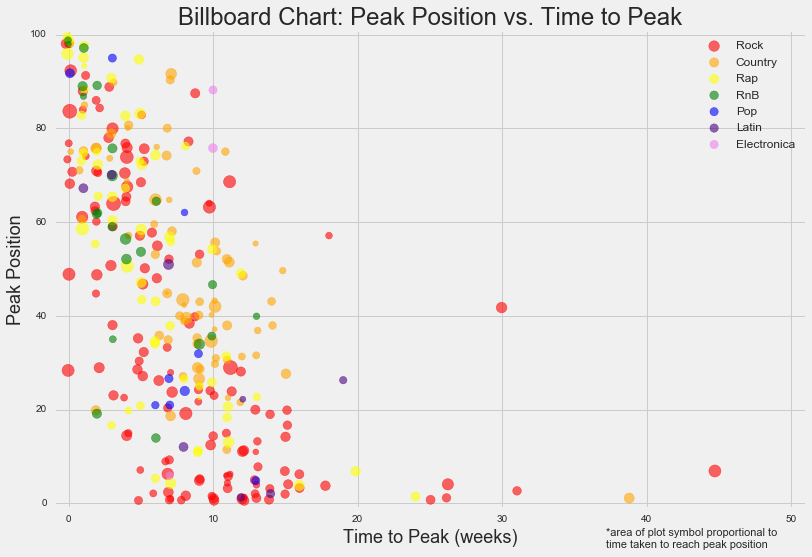
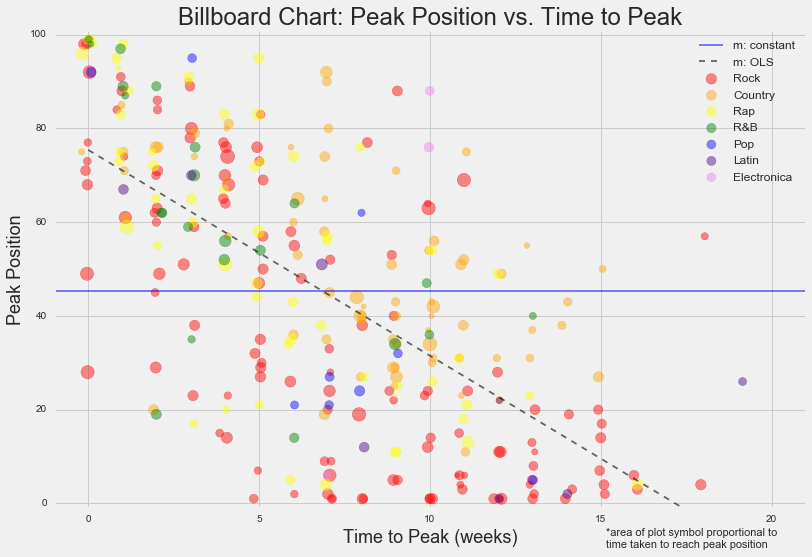
whoa

diff --git a/_posts/2016-6-22-billboardproject.md b/_posts/2016-6-22-billboardproject.md
@@ -2,19 +2,18 @@
 layout: post
 title: Billboard Chart -- Predicting the Hits
 ---
-![scatter](../images/billboardpeakvtimetopeakscatter.png)
-&nbsp;&nbsp;&nbsp;&nbsp;&nbsp;&nbsp;[Here](https://github.com/forzavitale/DSI-projects/tree/master/PROJECTS/Billboard%20Chart) I examined data on 317 different songs hitting the Billboard chart in the year 2000.  These variables considered are: song length, chart entry position, peak chart position, and weeks elapsed from entry until peak.  After some cleaning, the box plots below that songs tend to enter lower and then peak (instead of peaking and dropping off the chart, for example).  Peak position is attained, on average, about seven weeks after entry on the chart.
+&nbsp;&nbsp;&nbsp;&nbsp;&nbsp;&nbsp;[Here](https://github.com/forzavitale/DSI-projects/tree/master/PROJECTS/Billboard%20Chart), we examine data on 317 different songs hitting the Billboard Hot 100 chart in the year 2000.  The features explored include: song length, chart entry position, peak chart position, and weeks elapsed from entry until peak.  
 
-![boxplot](../images/billboardtimetopeakboxplot.png)
-
-&nbsp;&nbsp;&nbsp;&nbsp;&nbsp;&nbsp;Song length is -- perhaps unsurprisingly (due to human attention span and other factors such as commercial demand for radio airtime) -- pretty normally distributed around four minutes, just at a glance.  We can see this nicely illustrated in the following histogram:
+&nbsp;&nbsp;&nbsp;&nbsp;&nbsp;&nbsp;Song length is -- perhaps unsurprisingly, due to human attention span and other factors such as commercial demand for radio airtime -- fairly normally-distributed with mean somewhere around four minutes.  This is illustrated in the following histogram:
 
 ![histo](../images/billboardlengthhisto.png)
 
-&nbsp;&nbsp;&nbsp;&nbsp;&nbsp;&nbsp;And here is a visualization of the number of songs in each genre; Rock, Country, and Rap are clearly the most popular of those included in the Billboard Chart.
+&nbsp;&nbsp;&nbsp;&nbsp;&nbsp;&nbsp;In terms of genre representation in the Billboard Hot 100, Rock, Country, and Rap are clearly the most popular of those included:
 
 ![bar](../images/billboardbar.png)
 
-&nbsp;&nbsp;&nbsp;&nbsp;&nbsp;&nbsp;There appears to be a linear relationship between the amount of time it takes a song to reach peak position on the chart and the position ranking itself, as we can see in the scatterplot at the top of the page.  Using a two-tailed t-test at a 0.05 significance level, we detect a significant relationship between these two variables; the longer a song takes to peak, the higher the peak position tends to be.
+&nbsp;&nbsp;&nbsp;&nbsp;&nbsp;&nbsp;There appears to be a linear relationship between the amount of time it takes a song to reach peak position on the chart and the peak position, as we can see in the scatterplot below.  We see that at a 0.05 significance level there appears to be a linear relationship between the amount of time it takes a song to reach its peak position, and that peak position.
+
+![scatter](../images/billboardpeakvtimetopeakscatter.png)
 
 Rock 'n' roll!

diff --git a/about.md b/about.md
@@ -4,9 +4,9 @@ title: A little about me...
 permalink: /about/
 ---
 
-Data visualization-focused, MA in Stats, cooks all the time. 
+Data visualization-focused, MA in Stats, cooks all the time.
 
 
-### Want to collaborate or just say hi?  E-mail me!
+### Want to collaborate or say hi?  Contact me!
 
-[rebecca.e.vitale@gmail.com](mailto:email@domain.com)
+[rebecca.vitale@ga.co](mailto:email@domain.com)
